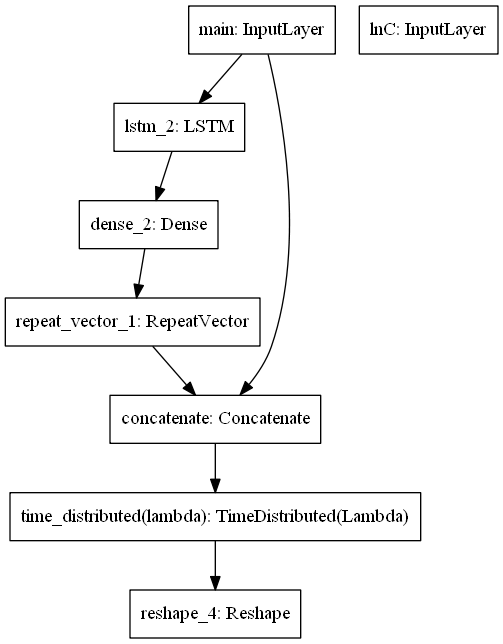
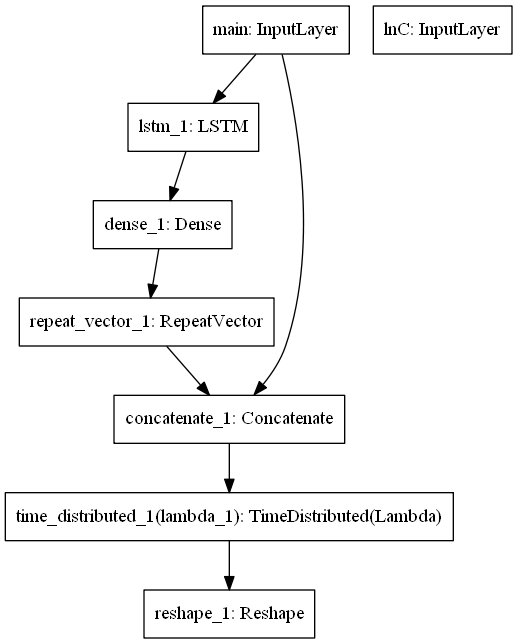
0512

diff --git a/11_NN_fit.py b/11_NN_fit.py
@@ -12,13 +12,19 @@ import tensorflow as tf
 from tensorflow.keras import layers, Sequential
 from tensorflow.keras import Input
 from tensorflow.keras.models import Model
-from tensorflow.keras.layers import LSTM, TimeDistributed, Dense, Activation, BatchNormalization, InputLayer, Lambda, Concatenate, concatenate,Reshape
+from tensorflow.keras.layers import LSTM, TimeDistributed, Dense, Activation, BatchNormalization, InputLayer, Lambda, Concatenate, concatenate,Reshape, RepeatVector
 from tensorflow.keras.callbacks import ModelCheckpoint, ReduceLROnPlateau, EarlyStopping
 from tensorflow.keras import optimizers
 from tensorflow.keras import backend as K
+from sklearn.metrics import r2_score
 
+#%%
 os.chdir(os.path.dirname(os.path.realpath(__file__)))
-
+def normal_augmentation(input, output, seed, std=0.2, times=5):
+    aug_input = np.vstack([(input*std*np.random.normal(size=input.shape)+input) for i in range(times)])
+    aug_input = np.vstack([input, aug_input])
+    aug_output = np.vstack([output for i in range(times+1)])
+    return(aug_input, aug_output)
 #%% 미국 주별 인구데이터 불러오기
 import pickle
 with open('US_pop.pkl', 'rb') as f:
@@ -69,17 +75,22 @@ for STATE in state_list:
         X_lnC.append(df[['lnC']].iloc[-61:-1].values)
         Y_dlnC.append(df[['dlnC']].iloc[-61:-1].values)
         Y_lnC.append(df[['lnC_nxt']].iloc[-61:-1].values)
+
 X_lnC = np.array(X_lnC)
 X = np.array(X)
 Y_dlnC = np.array(Y_dlnC)
 Y_lnC = np.array(Y_lnC)
+#%% Augmentation
+X_aug, Y_dlnC_aug = normal_augmentation(X,Y_dlnC,seed = 1, times = 20)
+X_lnC_aug, Y_lnC_aug = normal_augmentation(X_lnC, Y_lnC, seed = 1, times = 20)
 
 # %%
+
 # optimizer='RMSprop', init='glorot_uniform', lr=0.001, dropout=0.2, epoch = 10, time_len = 10,n_hidden=10,n_layer =1,loss='mean_squared_error'
 def CALC_dlnC(x):
     alpha = x[:,0]
-    A = x[:,1]
-    rho = x[:,2]
+    rho = x[:,1]
+    A = x[:,2]
     B = x[:,3]
     dlnT = x[:,4]
     CT = x[:,5]
@@ -89,21 +100,41 @@ def CALC_dlnC(x):
 main_input = Input(shape = (60,2),name = 'main')
 lnC_input = Input(shape = (60,1), name ='lnC')
 
-params = LSTM(50,dropout=0.2,kernel_initializer = 'glorot_uniform', return_sequences = True)(main_input)
-params = TimeDistributed(Dense(4))(params)
-merge = concatenate([params, main_input],axis=-1)
+# params = LSTM(50,dropout=0.2,kernel_initializer = 'glorot_uniform', return_sequences = True)(main_input)
+# params = TimeDistributed(Dense(4))(params)
+
+params = LSTM(10,dropout=0.2,kernel_initializer = 'glorot_uniform')(main_input)
+params2 = Dense(4, activation = 'tanh')(params)
+params3 = RepeatVector(60)(params2)
+
+merge = concatenate([params3, main_input],axis=-1)
 dlnC_hat = TimeDistributed(Lambda(CALC_dlnC))(merge)
 dlnC_hat2 = Reshape((60,1))(dlnC_hat)
 
-model = Model(inputs = [main_input,lnC_input], outputs = [dlnC_hat2, params])
+model = Model(inputs = [main_input,lnC_input], outputs = [dlnC_hat2, params3])
 
-model.compile(loss='mean_squared_error',optimizer='RMSprop',loss_weights=[1., 0.0])
+model.compile(loss='mean_squared_error',optimizer='Adam',loss_weights=[1., 0.0])
 #%%
 d= np.repeat(Y_lnC, 4, axis=2) ## dummy
 
-history = model.fit([X,X_lnC], [Y_dlnC,d], epochs = 2000, batch_size = 5, shuffle = True,verbose = 1)
+history = model.fit([X,X_lnC], [Y_dlnC,d], epochs = 1000, batch_size = 5, shuffle = True,verbose = 1)
+history = model.fit([X[0].reshape(1,60,2),X_lnC[0].reshape(1,60,1)], [Y_dlnC[0].reshape(1,60,1),d[0].reshape(1,60,4)], epochs = 1000, batch_size = 1, shuffle = True,verbose = 1)
 
 #%%
+Y_C_hat, values = model.predict([X[50].reshape(1,60,2),X_lnC[50].reshape(1,60,1)])
+
+Y_dlnC_hat, params_hat = model.predict([X, X_lnC])
+
+r2_score(Y_dlnC[0,:,:].reshape(-1), Y_dlnC_hat[1,:,:].reshape(-1))
+for i in range(1):
+    print(r2_score(Y_dlnC[i,:,:].reshape(-1), Y_dlnC_hat[i,:,:].reshape(-1))
+)
+
+
+model.predict()
+
+
+
 #%%
 fig, loss_ax = plt.subplots()
 acc_ax = loss_ax.twinx()
@@ -111,8 +142,11 @@ acc_ax = loss_ax.twinx()
 loss_ax.plot(history.history['loss'], 'y', label='train loss')
 loss_ax.set_xlabel('epoch')
 loss_ax.set_ylabel('loss')
+
 loss_ax.legend(loc='upper left')
 plt.show()
+
+
 
 #%%
 tf.keras.utils.plot_model(model)
